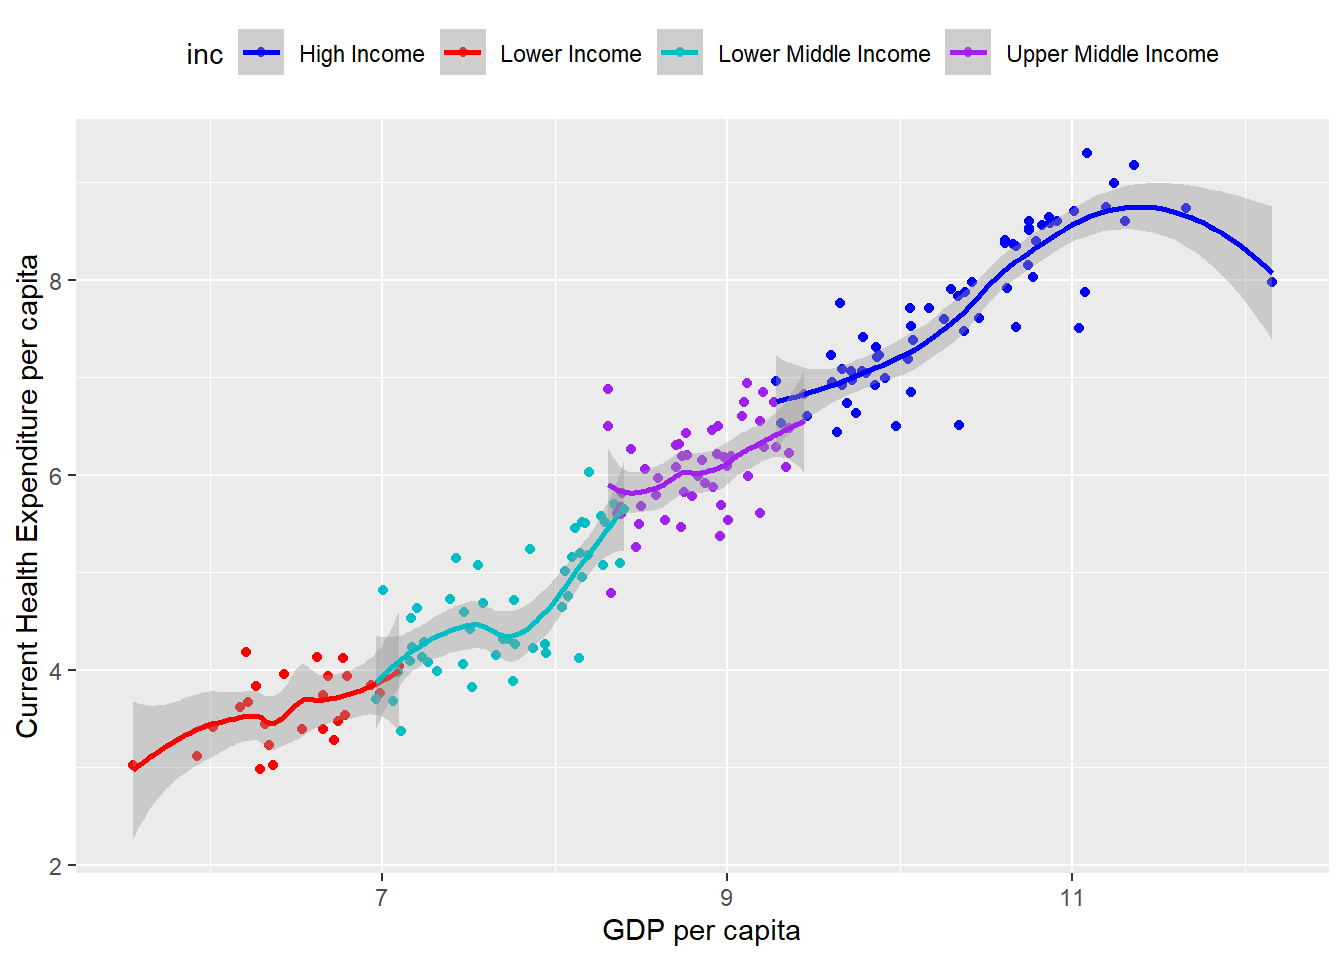
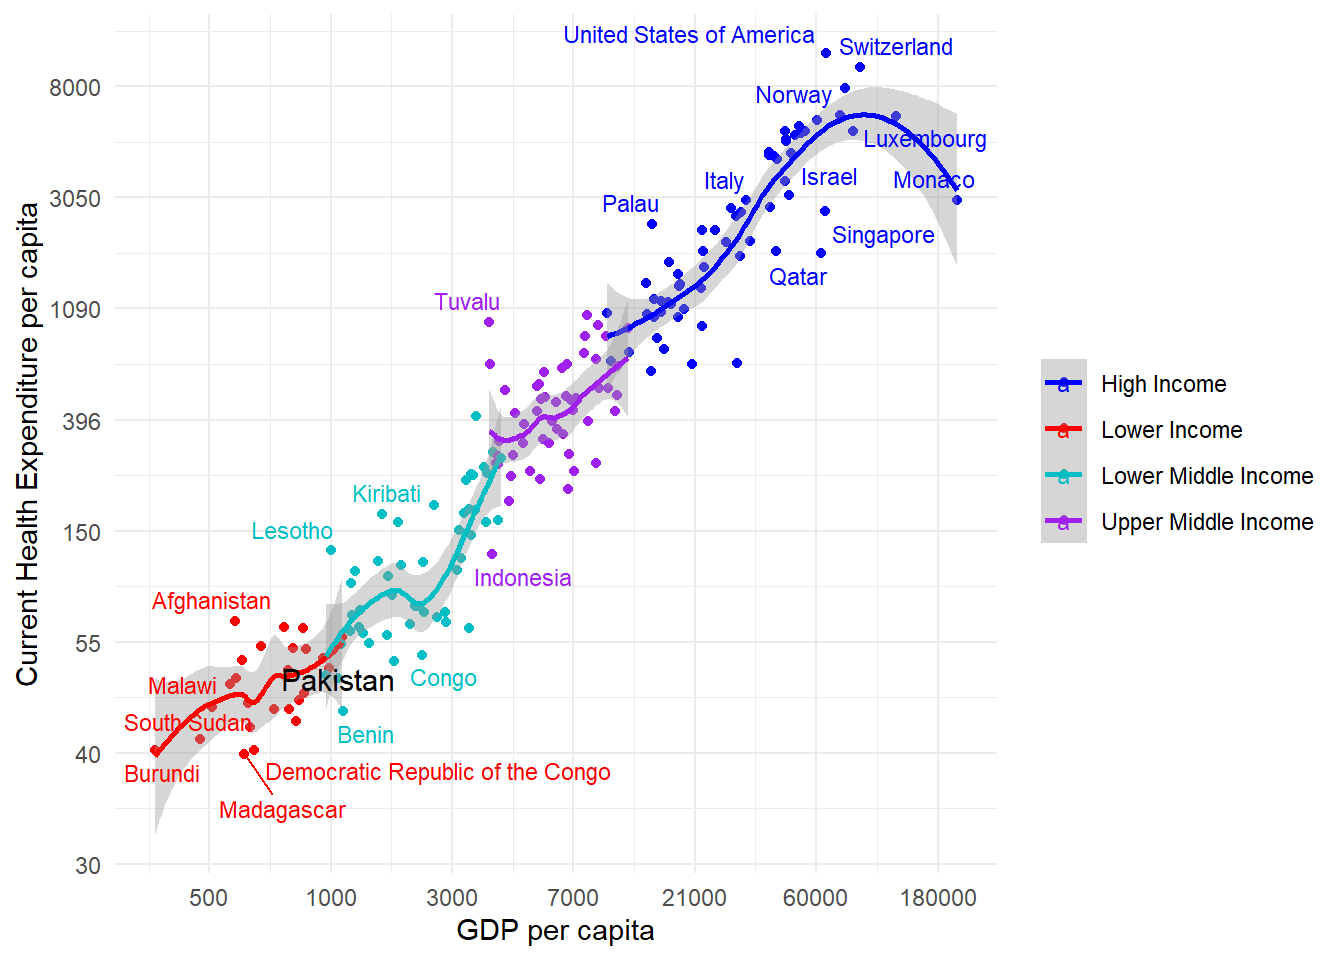
Made final chart

diff --git a/20-11-22/Global Health Expenditure.html b/20-11-22/Global Health Expenditure.html
@@ -58,7 +58,7 @@ ul.task-list li input[type="checkbox"] {
 </div>
 </div>
 <center>
-<font size="5" face="arial" color="black"> Global Health Expenditure </font>
+<font size="5" face="arial" color="black"> Global Health Expenditure Insights (2019) </font>
 </center>
 <div class="cell" data-hash="Global-Health-Expenditure_cache/html/data_loading_6f5ed4063e1ce9da9bb480284a2bdca5">
 
@@ -73,8 +73,10 @@ ul.task-list li input[type="checkbox"] {
 </div>
 <p><font size="4" face="arial" color="black"></font></p><font size="4" face="arial" color="black">
 <ul>
-<li></li>
-<li></li>
+<li>Global Health Spending has more than doubled over the past two decades, reaching US$ 8.5 trillion in 2019, or 9.8% of global GDP. But it was unequally distributed, with high income countries accounting for approximately 80%.<br>
+</li>
+<li>Between 2009-2019 Pakistan GDP Per Capita has risen by 26.6% and Current Health Expenditure has risen by 64.2%</li>
+<li>Of Pakistan’s Current Health Expenditure,Out of Pocket Expenditure is 51.7% while Government Financing is 39.7%.</li>
 </ul>
 </font><p><font size="4" face="arial" color="black"></font></p>
 <p><font size="3"> Data Source : <a href="https://apps.who.int/nha/database"><em>Global Health Expenditure Database (WorldBank)</em></a> </font></p>
